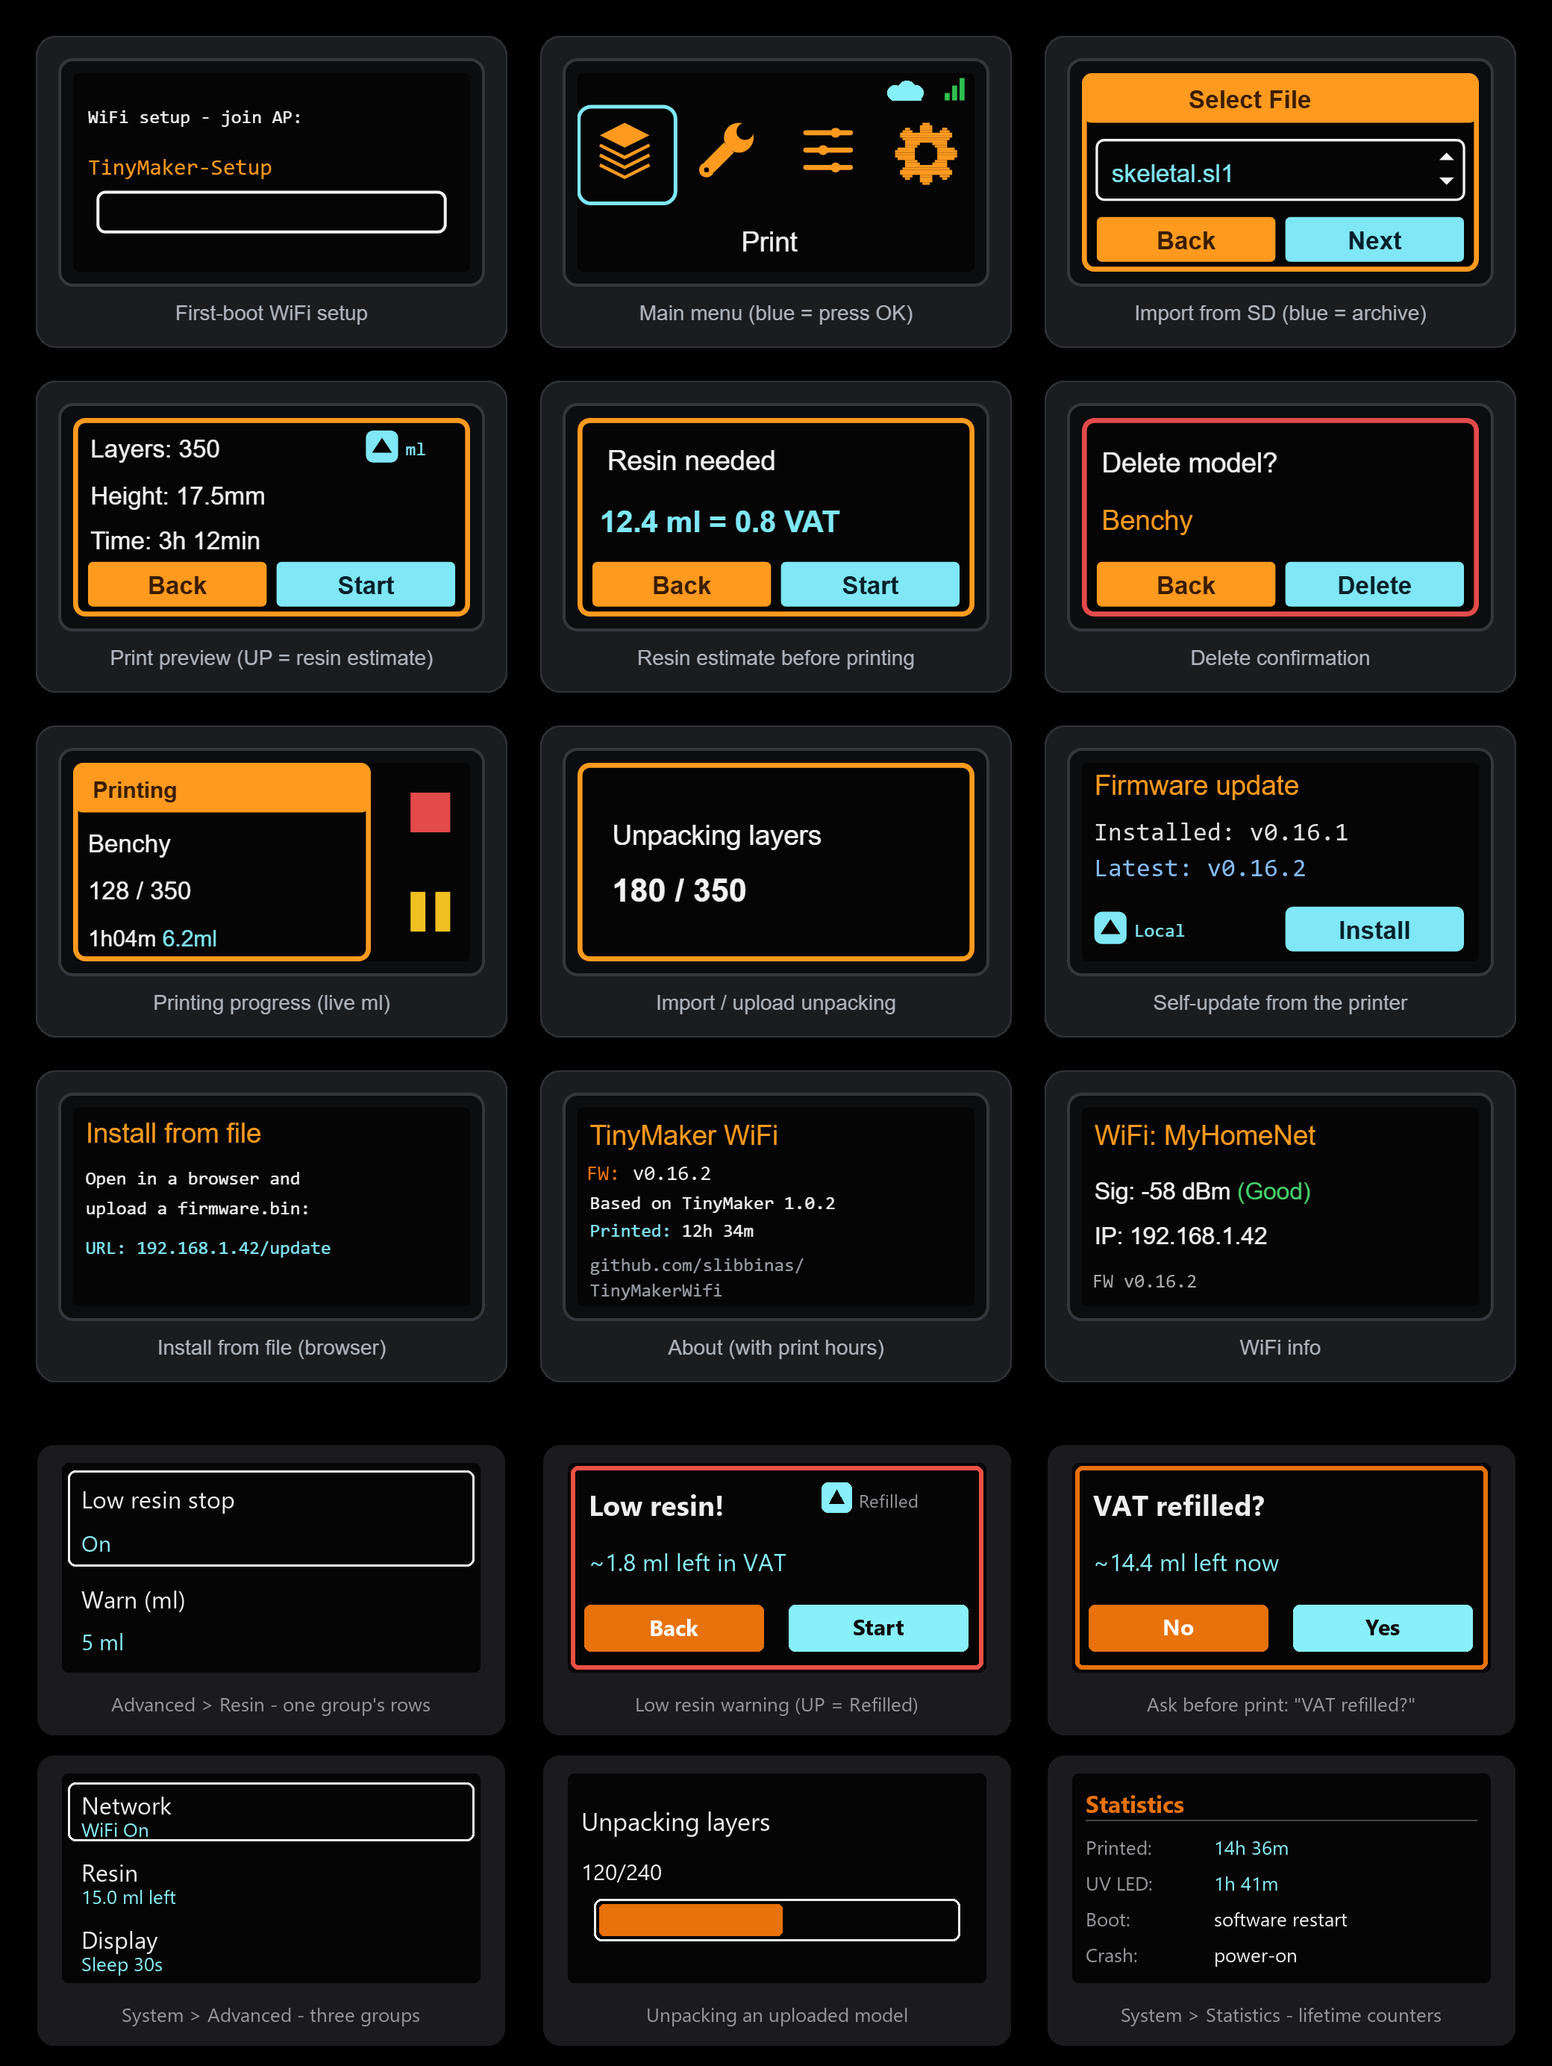
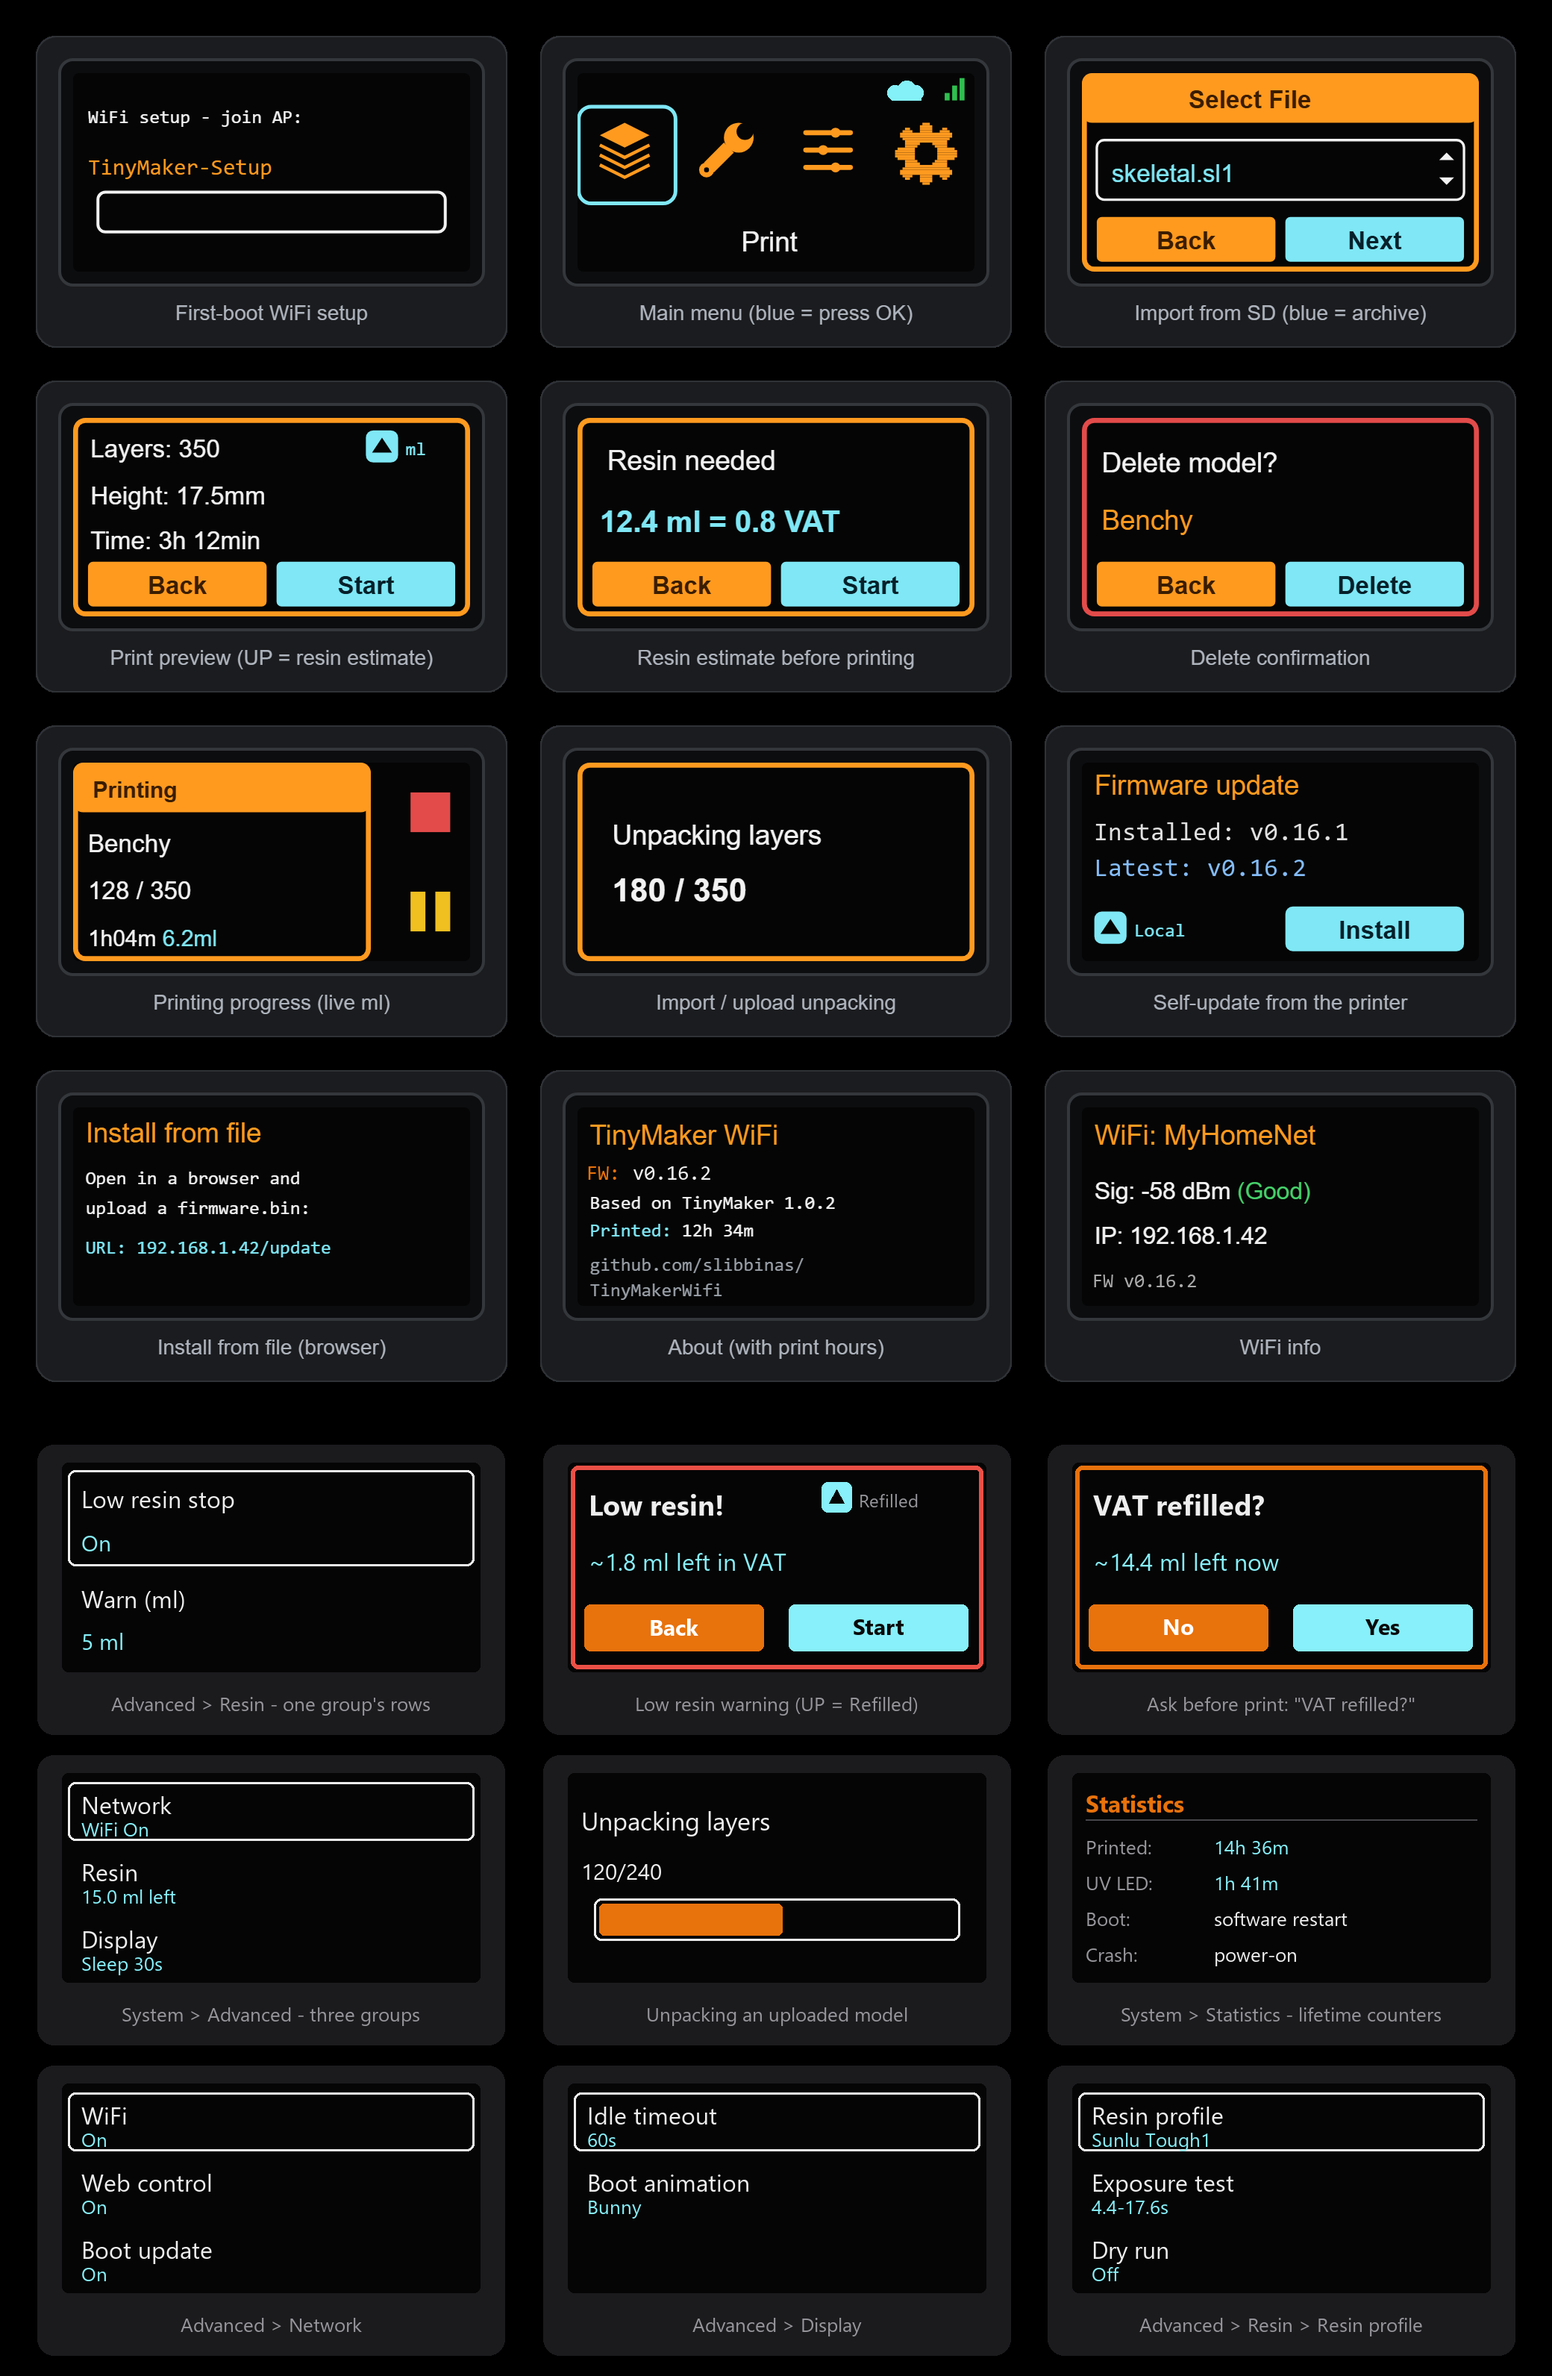
manual: the pictures now sit under the sections that talk about them
The SD manager and preview section was illustrated with a printing screen, and
the printing section had none - the two had swapped places. Each now carries
its own: a real preview card with a rendered model and its controls above the
SD manager with a model selected, so Start and Delete are visible.

The printer-screens collage gains a seventh row: the Advanced menu shown as it
looks on the screen - Network, Display and the Resin group with the profile
row. Reading a table of items is not the same as seeing where they live.

diff --git a/docs/manual/index.html b/docs/manual/index.html
@@ -462,11 +462,12 @@ window.addEventListener('DOMContentLoaded',window.tmSyncSite);
   <div class="note">🧪 No printer at hand? <a href="https://tinymakerwifi.com/demo/">Try the dashboard live</a> — the same UI driving a simulated printer: start a print, watch the 3D progress, poke through Settings.</div>
   <div class="note">💬 The <b>Feedback</b> link in the header opens a 30-second form — what works, what doesn't, what's missing. Photos are welcome (a failed print says more than a paragraph) and your firmware version comes along automatically. No account, and it genuinely steers what gets built next.</div>
   <img class="shot" src="images/web-dashboard.png" alt="The TinyMakerWifi web dashboard on a wide screen: status and model preview on the left, STL slicer and SD manager on the right">
+  <img class="shot" src="images/dashboard-idle.png" alt="The dashboard on a desktop screen: status card with UV LED time and the Manual link, SD manager with models">
   <h3>While a print runs</h3>
   <p>The state line counts the current step down — <b>Curing · 9s</b>, <b>Lifting · 4s</b> — and after <b>Stop</b> or a finished print it counts the ride to the top the same way, so that wait finally has a number. Next to it a small dot says whether the printer answered just now (green) or is mid-move (amber, <i>syncing</i>).</p>
+  <img class="shot" src="images/printing-eta.png" alt="The dashboard while printing: status with remaining time and finish-time estimate, print controls and the live 3D progress render">
   <p>That dot is worth understanding, because it explains something that looks like a fault. One ESP32 runs the screen, the motor, the UV LED and this web server, all off a single SD card — so the page is served in the gaps between layer moves. During the peel the printer deliberately answers nothing: a pause there could mark the part. <b>A few seconds of amber is the printer working, not the page hanging.</b> The SD card is locked for the same reason — uploads and file actions come back when the print ends, and the model list stays readable throughout.</p>
   <p>On a larger screen it spreads into two columns:</p>
-  <img class="shot" src="images/dashboard-idle.png" alt="The dashboard on a desktop screen: status card with UV LED time and the Manual link, SD manager with models">
   <p>New to the printer? A dismissible <b>Getting Started</b> checklist on the dashboard walks you through the first steps (WiFi → slicer → first model → first print → exposure calibration → integrations) — the printer ticks steps off by itself where it can.</p>
   <p><b>Put it on your phone's home screen:</b> open the dashboard in the phone browser and pick <i>Add to Home screen</i> (Chrome: the ⋮ menu; iPhone Safari: Share → <i>Add to Home Screen</i>). You get the printer's icon on the home screen, and on iPhone it opens fullscreen like an app. (A browser "install" banner won't appear — the printer serves plain HTTP on your LAN — but the shortcut works the same.)</p>
 
@@ -490,6 +491,7 @@ window.addEventListener('DOMContentLoaded',window.tmSyncSite);
 
   <h3>The SD manager &amp; the Model preview card</h3>
   <p>Uploads are safe: a model unpacks into a temporary folder and replaces the old one only after unpacking succeeds, and uploading a name that already exists asks <b>Replace / Rename / Cancel</b> (a PrusaSlicer re-upload simply replaces, as you’d expect while iterating).</p>
+  <img class="shot" src="images/sd-and-preview.png" alt="The model preview card with a rendered model and its view controls, and below it the SD manager: a selected model with Start and Delete, the other models, the page arrows and the card-space bar">
   <p>The card leads with the model list — the part you use every day. <b>Upload…</b> sits in its corner: one click opens the file picker and the file starts uploading the moment you choose it. Storage sits at the bottom as a thin bar, out of the way until it matters (it turns amber past 85%). Uploading a model that doesn't fit is refused before anything is sent, so the bar is information, not a thing to watch.</p>
   <p>Every model row <b>is</b> the preview button: click it and the browser rebuilds the shape from the sliced layers and renders it into the <b>Model preview</b> card, with a live percentage while it loads, then a compact info line — layers · height · print time · resin — and a <b>Share model</b> button (when TinyMaker Connect is registered). The selected row is highlighted, so a card full of models never leaves you guessing which one is on screen. <b>Start</b> and <b>Delete</b> appear on the row itself — under the mouse on a computer, on a tap on the phone — and Start goes straight to the <i>Start this print?</i> question without waiting for the preview.</p>
   <p>The card itself is always on the dashboard, like the SD manager: before anything is previewed it shows a hint, and the last previewed model is remembered — a page reload brings it straight back from the saved preview (no re-render, nothing to redo).</p>
@@ -502,7 +504,6 @@ window.addEventListener('DOMContentLoaded',window.tmSyncSite);
   <p><b>Resin on the info line:</b> when the exact amount is known it is shown outright; otherwise a quick <code>~X&nbsp;ml (quick)</code> estimate appears with the preview, free of charge. Clicking the <code>~</code> value runs the <b>exact scan on the printer</b> — it decodes every layer, so expect roughly a minute per 100 layers.</p>
   <p>Start a print (from the row’s <b>Start</b> or on the printer) and the same card takes over automatically as a <b>live progress render</b>: the printed part fills in with color, the rest stays a ghost outline. It costs the printer nothing (the browser renders from a few prefetched layers).</p>
   <p><b>Any device, at any point in the print.</b> You do not have to have opened the preview beforehand, and it does not have to be the same browser or the same phone — open the dashboard an hour into a print, on a device that has never seen the model, and the growing shape is there. The printer keeps a small stack of layer silhouettes in memory as it prints and hands them to whoever asks, so nothing is read from the SD card mid-print. (Opening the preview first still gives the fuller picture: the complete model as a ghost, rather than only what has been printed so far.)</p>
-  <img class="shot" src="images/printing-eta.png" alt="The dashboard while printing: status with remaining time and finish-time estimate, print controls and the live 3D progress render">
 
   <h3>The Settings tab</h3>
   <p>Settings is split into sections, switched by underline tabs — <b>Print / Network / Notifications / Display / Backup / Update / About</b> — shown one at a time, each with its own <b>Save config</b> button (saving from any section preserves the other sections’ values):</p>

diff --git a/scripts/refresh_mockups.py b/scripts/refresh_mockups.py
@@ -179,7 +179,7 @@ def extend_printer_screens():
     p = MOCKUPS / "printer-screens.png"
     src = Image.open(p).convert("RGB")
     base = src.crop((0, 0, 2080, 1920))
-    img = Image.new("RGB", (2080, 2768), (0, 0, 0))
+    img = Image.new("RGB", (2080, 3184), (0, 0, 0))
     img.paste(base, (0, 0))
     d = ImageDraw.Draw(img)
 
@@ -279,8 +279,47 @@ def extend_printer_screens():
         d.text((lx + 18, ry), k, font=_seg(26), fill=CAPTION)
         d.text((lx + 190, ry), v, font=_seg(26), fill=c)
 
+    # ---------------- septinta eile: Advanced meniu is arti --------------------
+    # V praše (08-27), kad Advanced meniu butu parodytas ne viena plytele, o
+    # pilna eile: zmogus, atsivertes 12 skyriu, nori pamatyti, KAIP tos grupes
+    # atrodo ekrane, o ne tik perskaityti ju sarasa.
+    Y2 = Y1 + CH + 28
+
+    def tile7(cx, caption):
+        d.rounded_rectangle((cx, Y2, cx + CW, Y2 + CH), 22, fill=CARD)
+        lx, ly = cx + (CW - LW) // 2, Y2 + 24
+        d.rounded_rectangle((lx, ly, lx + LW, ly + LH), 8, fill=(5, 5, 5))
+        f = _seg(26)
+        bb = f.getbbox(caption)
+        d.text((cx + (CW - (bb[2] - bb[0])) / 2, Y2 + CH - 60), caption,
+               font=f, fill=CAPTION)
+        return lx, ly
+
+    def rows(lx, ly, items, sel=0):
+        for i, (name, val) in enumerate(items):
+            ry = ly + 12 + i * 90
+            if i == sel:
+                d.rounded_rectangle((lx + 8, ry, lx + LW - 8, ry + 78), 10,
+                                    outline=(238, 238, 238), width=3)
+            d.text((lx + 26, ry + 8), name, font=_seg(32), fill=(238, 238, 238))
+            d.text((lx + 26, ry + 44), val, font=_seg(26), fill=CYAN)
+
+    # --- tile 7: Network grupes vidus
+    lx, ly = tile7(cols[0], "Advanced > Network")
+    rows(lx, ly, [("WiFi", "On"), ("Web control", "On"), ("Boot update", "On")])
+
+    # --- tile 8: Display grupes vidus
+    lx, ly = tile7(cols[1], "Advanced > Display")
+    rows(lx, ly, [("Idle timeout", "60s"), ("Boot animation", "Bunny")], sel=0)
+
+    # --- tile 9: Resin profile - 0.17 punktas, kuris keicia visa recepta
+    lx, ly = tile7(cols[2], "Advanced > Resin > Resin profile")
+    rows(lx, ly, [("Resin profile", "Sunlu Tough1"),
+                  ("Exposure test", "4.4-17.6s"),
+                  ("Dry run", "Off")])
+
     img.save(p)
-    print("  printer-screens.png: penkta eile atnaujinta, sesta (0.16-0.17) pridėta")
+    print("  printer-screens.png: penkta eile atnaujinta, sesta ir septinta pridėtos")
 
 
 def draw_dashboard(latest):
